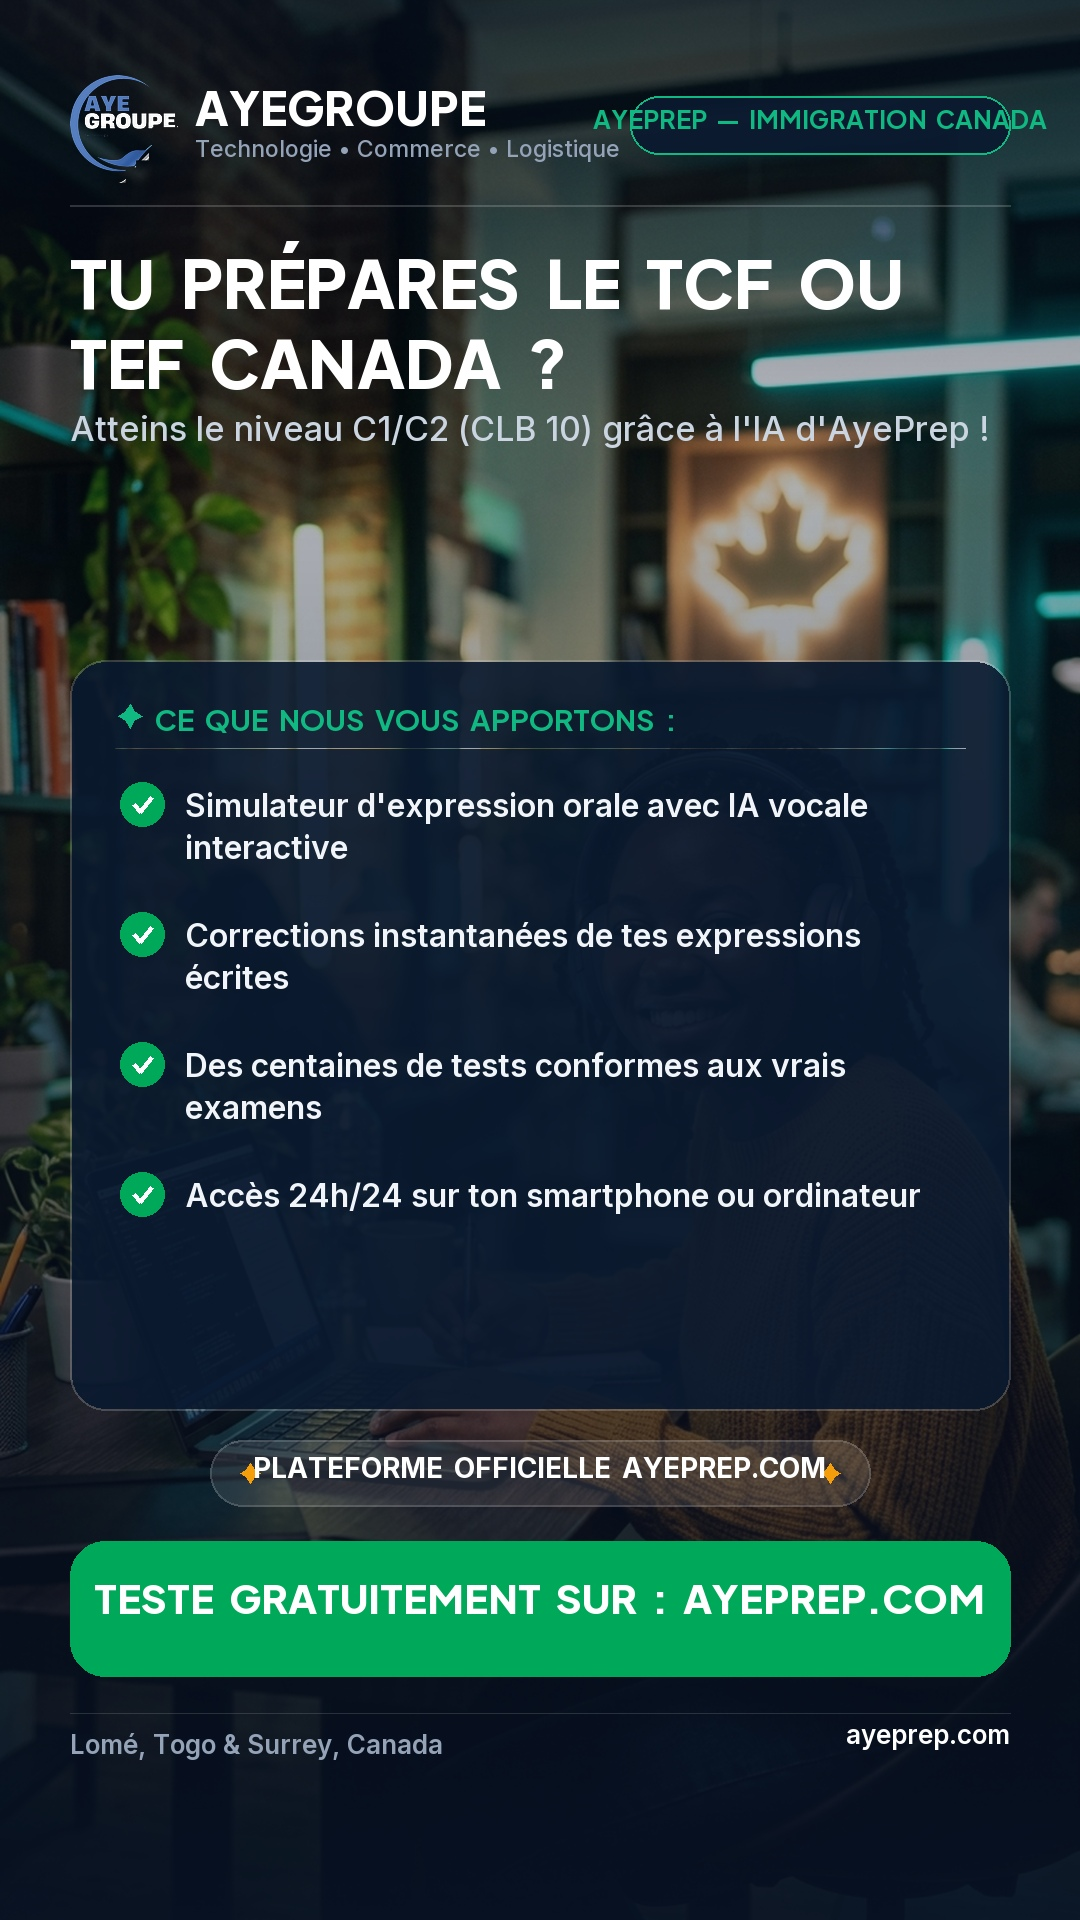
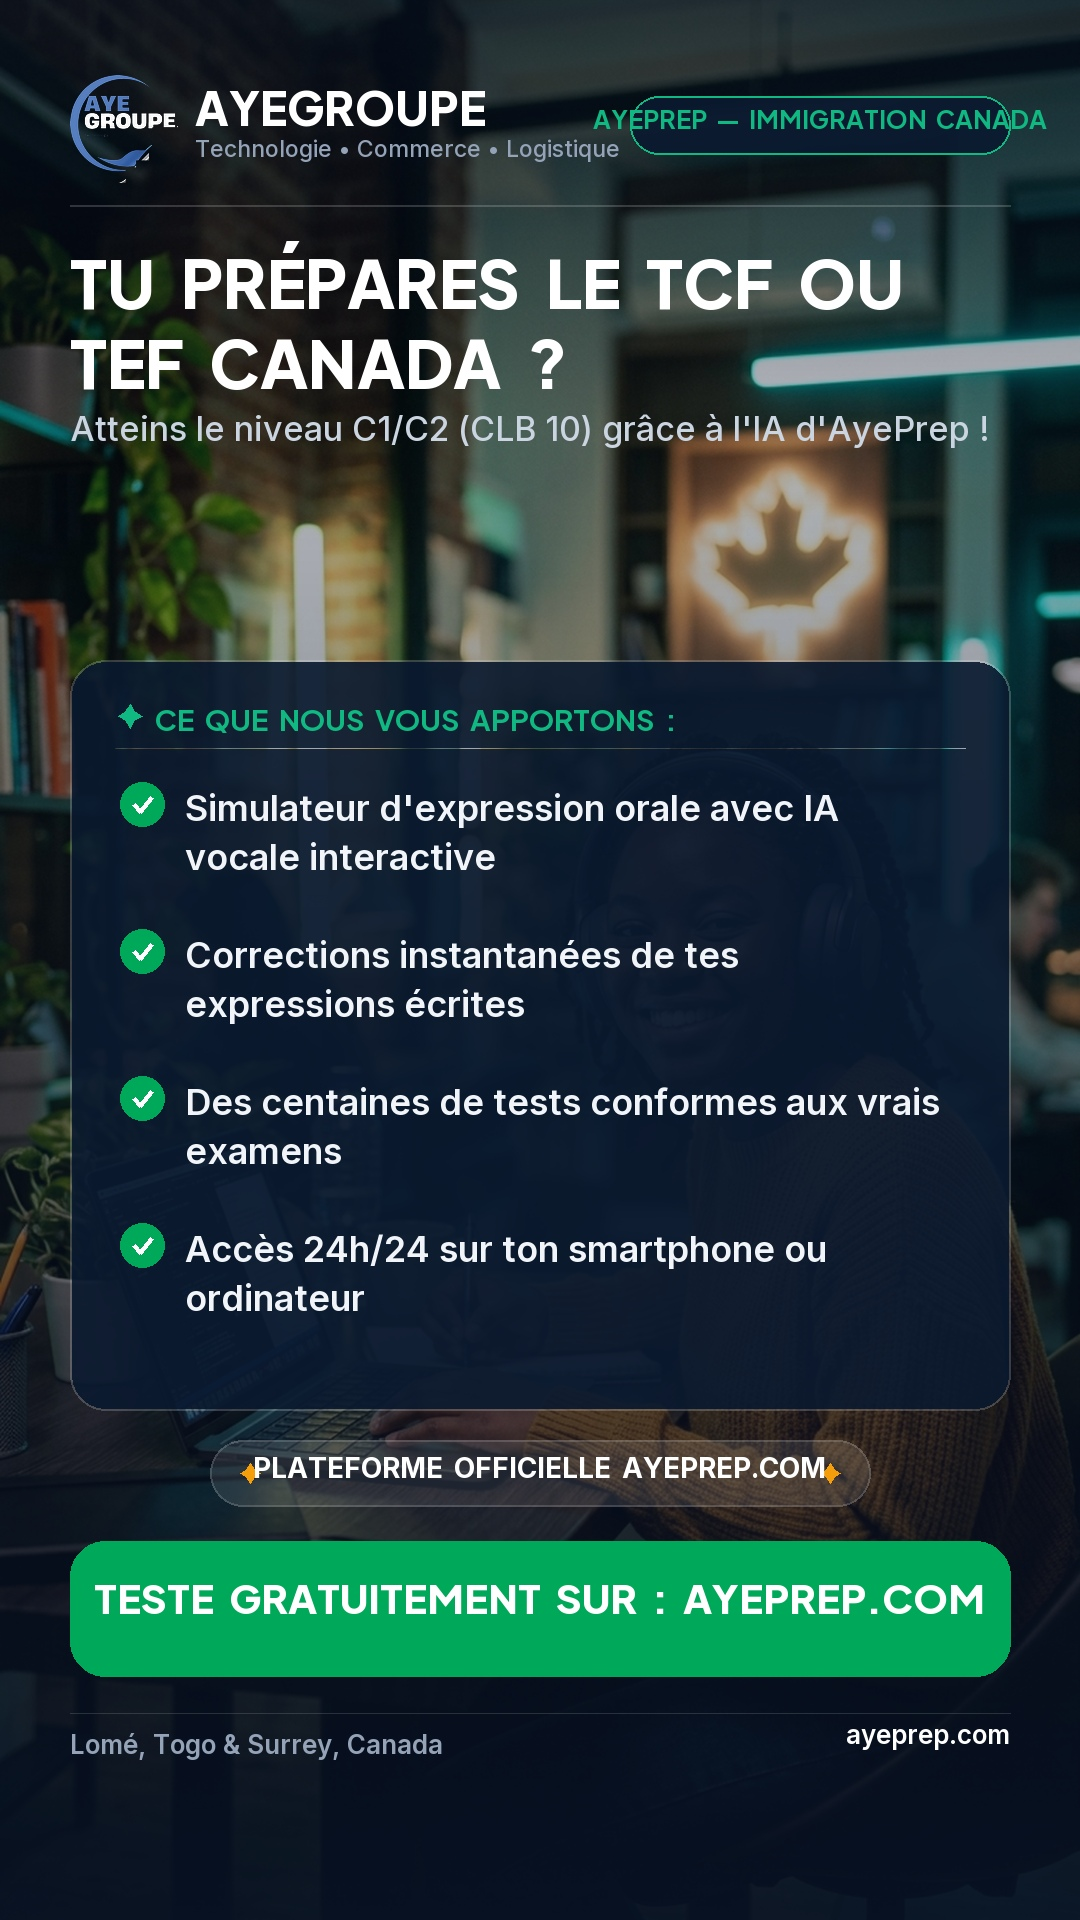
style(tiktok): enlarge the bullet text, fitted to the card
Bullets were set at a fixed 32px and left the lower third of the card
empty. They now start at 40px and step down only as far as needed to fit,
so the densest visual still lays out without overflowing.

Changed region(s): [[0.0917, 0.4062, 0.8861, 0.6875]]

diff --git a/scripts/build_official_tiktok_images.py b/scripts/build_official_tiktok_images.py
@@ -136,7 +136,6 @@ def generate_tiktok_poster(
     f_badge = load_font('jakarta', 25, 'Bold')
     f_sub = load_font('inter', 34, 'Medium')
     f_card_hdr = load_font('jakarta', 29, 'Bold')
-    f_bullet = load_font('inter', 32, 'SemiBold')
     f_tag = load_font('inter', 28, 'Bold')
     f_cta = load_font('jakarta', 40, 'ExtraBold')
     f_footer = load_font('inter', 26, 'SemiBold')
@@ -215,33 +214,46 @@ def generate_tiktok_poster(
     
     draw.line([(card_x + 45, hdr_y + 48), (card_x + card_w - 45, hdr_y + 48)], fill=(255, 255, 255, 35), width=1)
     
-    # Bullets
-    b_y = hdr_y + 80
-    for b in bullets:
-        # Custom vector checkmark
+    # Bullets, en taille adaptative : on prend la plus grande qui tienne
+    # encore dans la carte, pour un texte aussi lisible que possible sur un
+    # ecran de telephone.
+    B_TOP = hdr_y + 80
+    B_BOTTOM = card_y + card_h - 40
+
+    def layout_bullets(font, line_h, gap):
+        """Decoupe chaque puce en lignes et renvoie (lignes, hauteur totale)."""
+        out, total = [], 0
+        for b in bullets:
+            lines, cur = [], ""
+            for w in b.split(' '):
+                test = (cur + " " + w).strip()
+                if (font.getbbox(test)[2] - font.getbbox(test)[0]) > 770 and cur:
+                    lines.append(cur)
+                    cur = w
+                else:
+                    cur = test
+            if cur:
+                lines.append(cur)
+            out.append(lines)
+            total += max(gap, len(lines) * line_h + gap // 2)
+        return out, total
+
+    for b_size in range(40, 27, -2):
+        f_bullet = load_font('inter', b_size, 'SemiBold')
+        b_line_h = int(b_size * 1.38)
+        b_gap = int(b_size * 2.75)
+        laid_out, needed = layout_bullets(f_bullet, b_line_h, b_gap)
+        if B_TOP + needed <= B_BOTTOM:
+            break
+
+    b_y = B_TOP
+    for lines in laid_out:
         draw_vector_check(draw, card_x + 72, b_y + 24, radius=22, circle_fill=(0, 168, 89))
-        
-        # Multi-line wrap
-        b_words = b.split(' ')
-        b_lines = []
-        b_cur = ""
-        for w in b_words:
-            test = (b_cur + " " + w).strip()
-            bbox = f_bullet.getbbox(test)
-            if (bbox[2] - bbox[0]) > 770:
-                b_lines.append(b_cur)
-                b_cur = w
-            else:
-                b_cur = test
-        if b_cur:
-            b_lines.append(b_cur)
-        
         line_sub_y = b_y + 6
-        for bl in b_lines:
+        for bl in lines:
             draw.text((card_x + 115, line_sub_y), bl, fill=(241, 245, 249), font=f_bullet)
-            line_sub_y += 42
-        
-        b_y += max(88, len(b_lines) * 44 + 42)
+            line_sub_y += b_line_h
+        b_y += max(b_gap, len(lines) * b_line_h + b_gap // 2)
     
     # 7. Trust Badge (below card)
     tag_y = card_y + card_h + 30
